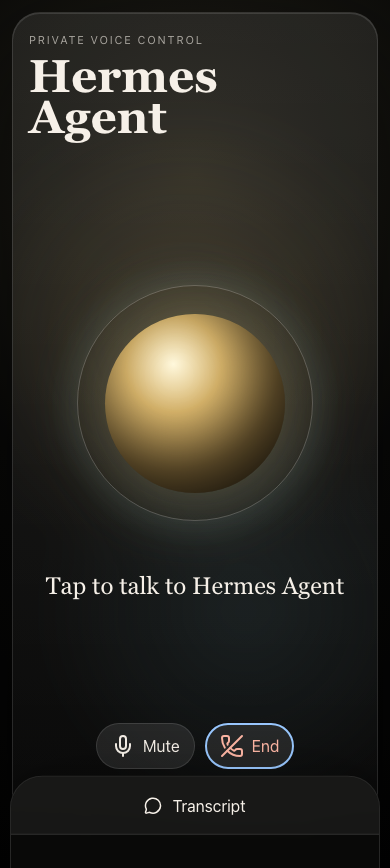
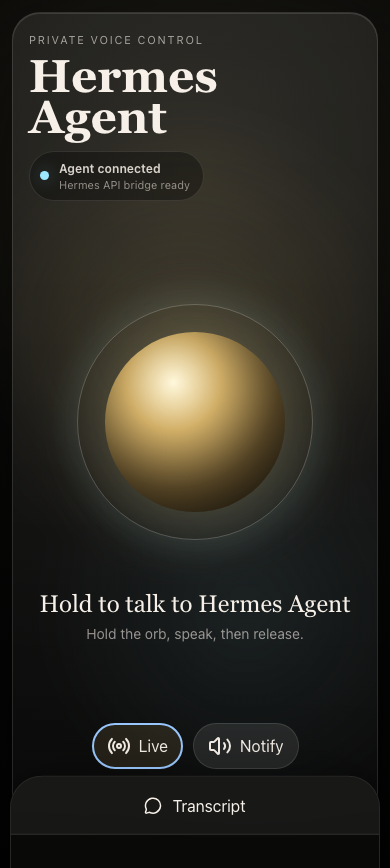
fix(web): readyz-details chip source + restore screenshot asset updates
Integration fix: #68 minimizes unauthenticated /readyz to {ok}, so the
connection chip now reads /readyz/details (session-authed) and falls back to
the minimal ok bit pre-auth or where details is unavailable. Browser-smoke
stubs mirror the production shapes. Also restores pnpm screenshots:update
writing the committed docs/assets/screenshots files (review P2).

Claude-Session: https://claude.ai/code/session_01VjnJkdxJFzQgNZ4RY7VtG9

diff --git a/apps/web/src/api.ts b/apps/web/src/api.ts
@@ -58,17 +58,23 @@ export async function login(pin: string) {
   });
 }
 export async function getReadyz(): Promise<ReadyzResponse> {
-  const res = await fetch(`${apiBase}/readyz`, {
-    credentials: "include",
-    headers: { "Content-Type": "application/json" },
-  });
+  // /readyz/details carries the checks the connection chip needs but sits
+  // behind session auth; unauthenticated /readyz only reports the ok bit.
   const fallback: ReadyzResponse = { ok: false };
-  try {
-    const body = (await res.json()) as ReadyzResponse;
-    return res.ok ? body : { ...body, ok: false };
-  } catch {
-    return fallback;
-  }
+  const read = async (path: string): Promise<ReadyzResponse | null> => {
+    try {
+      const res = await fetch(`${apiBase}${path}`, {
+        credentials: "include",
+        headers: { "Content-Type": "application/json" },
+      });
+      if (res.status === 401 || res.status === 404) return null;
+      const body = (await res.json()) as ReadyzResponse;
+      return res.ok ? body : { ...body, ok: false };
+    } catch {
+      return null;
+    }
+  };
+  return (await read("/readyz/details")) ?? (await read("/readyz")) ?? fallback;
 }
 export async function getGeminiToken() {
   return jsonFetch<{

diff --git a/scripts/browser-responsive.spec.ts b/scripts/browser-responsive.spec.ts
@@ -49,7 +49,16 @@ test.use({
 });
 
 async function stubUnlockedSession(page: Page) {
+  // Mirror production shapes: unauthenticated /readyz is minimal; the chip's
+  // checks come from /readyz/details behind session auth.
   await page.route("**/readyz", async (route) => {
+    await route.fulfill({
+      status: 200,
+      contentType: "application/json",
+      body: JSON.stringify({ ok: true }),
+    });
+  });
+  await page.route("**/readyz/details", async (route) => {
     await route.fulfill({
       status: 200,
       contentType: "application/json",
@@ -133,6 +142,13 @@ for (const viewport of viewports) {
     expect(orbBox?.height ?? 0).toBeGreaterThanOrEqual(140);
     const screenshotTarget = screenshotTargets[viewport.name];
     if (WRITE_SCREENSHOTS && screenshotTarget) {
+      // Committed README assets live under docs/assets/screenshots; write there
+      // so `pnpm screenshots:update` refreshes them, plus a copy in the test
+      // output dir for per-run evidence.
+      await page.screenshot({
+        path: `docs/assets/screenshots/${screenshotTarget}`,
+        fullPage: true,
+      });
       await page.screenshot({
         path: testInfo.outputPath(screenshotTarget),
         fullPage: true,
